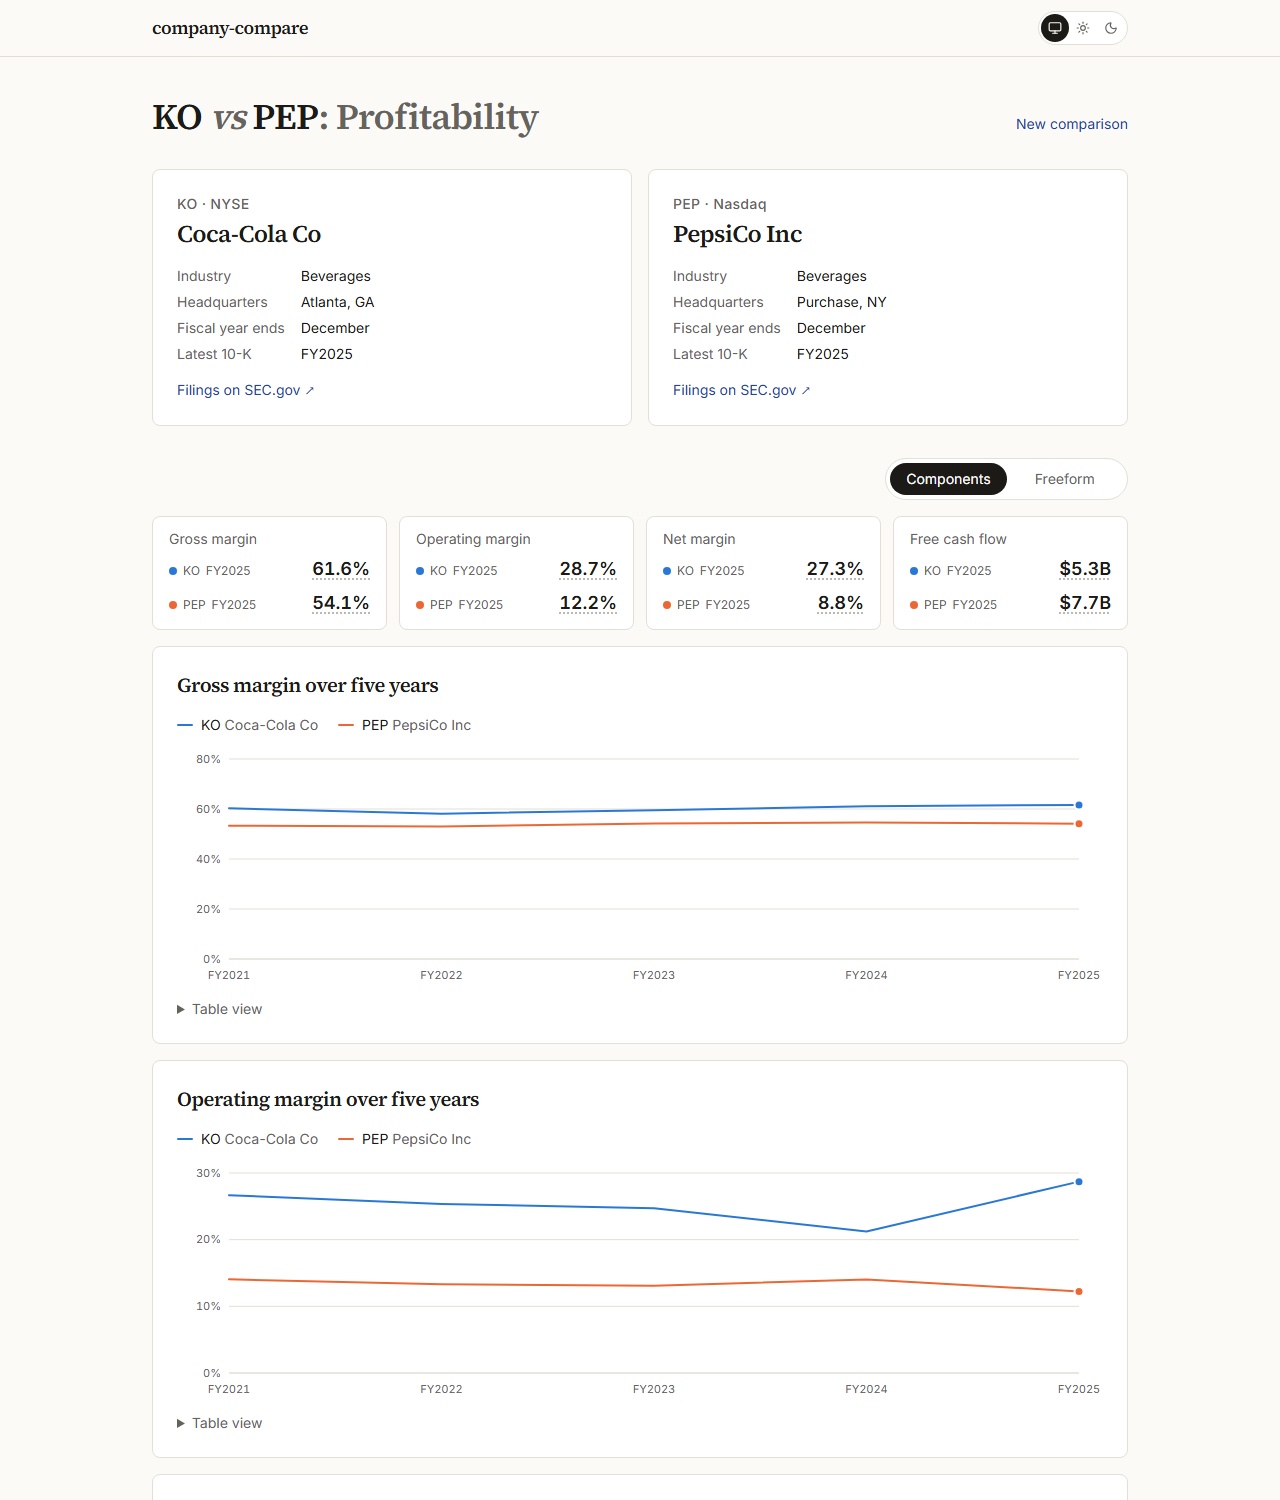
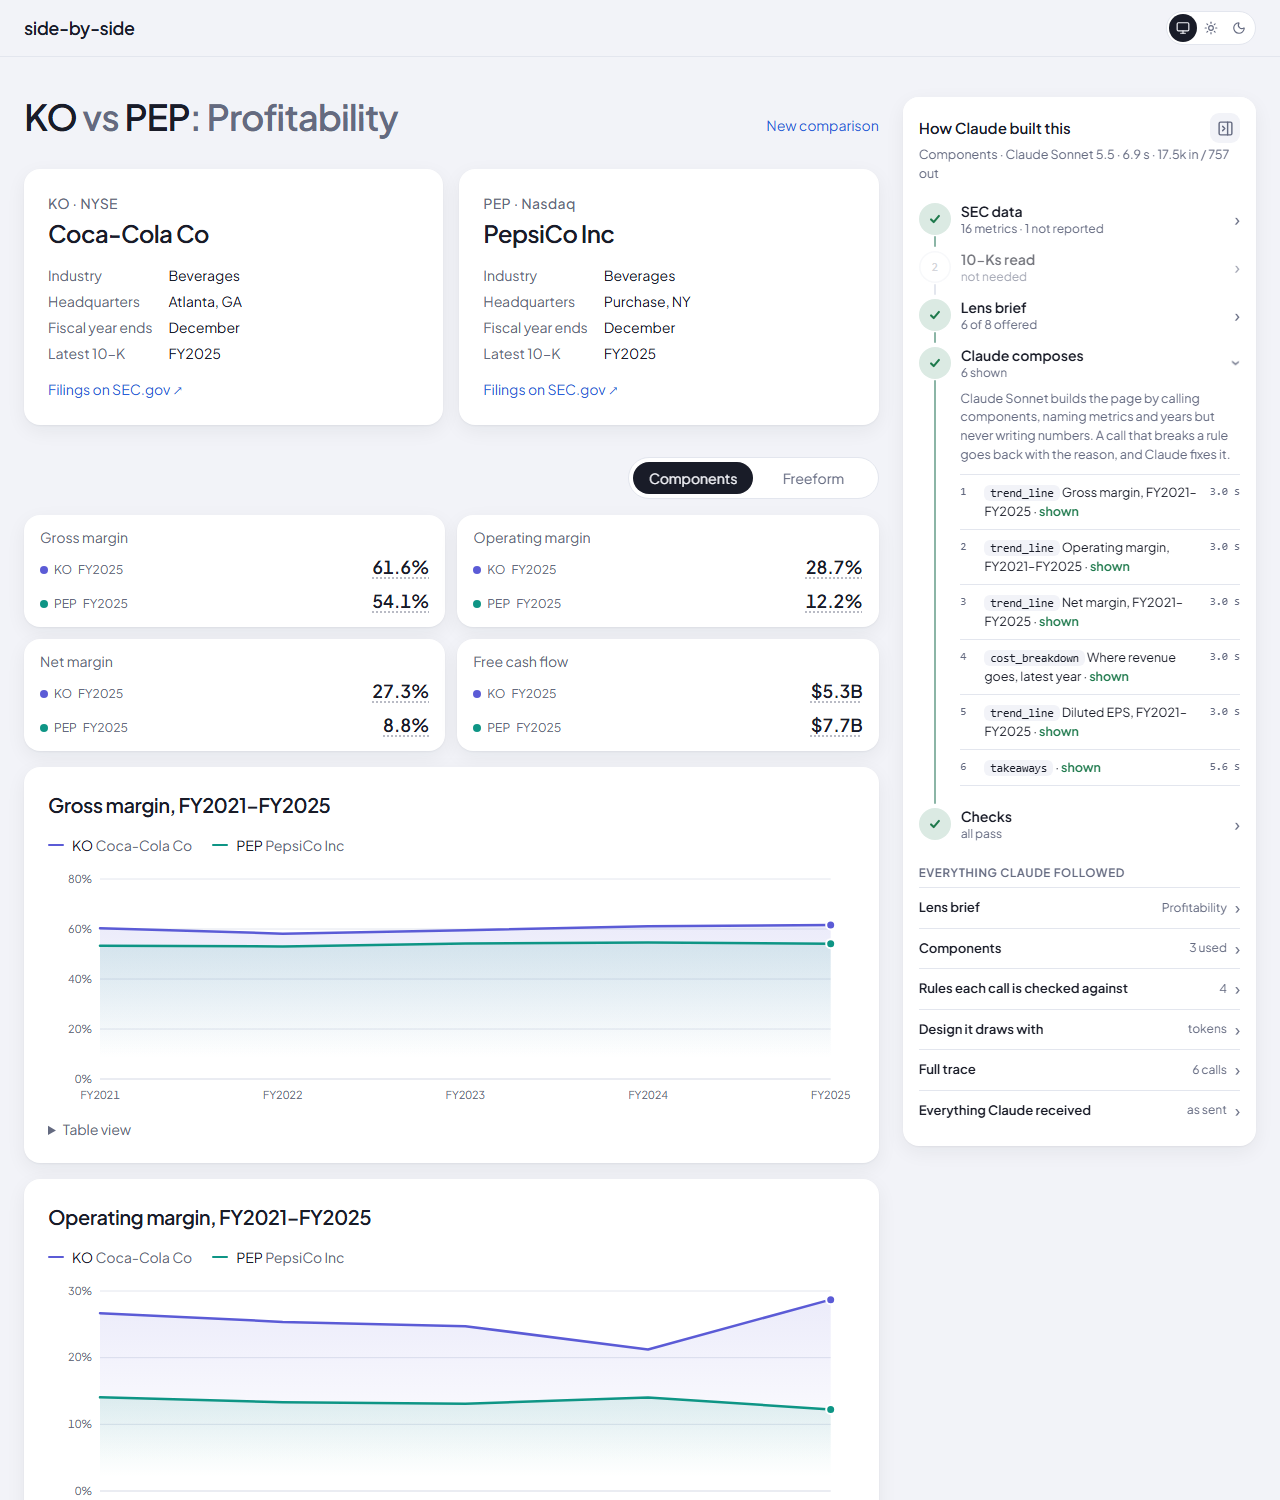
README: how each page is made, a live-generation GIF, fresh screenshots
Claude-Session: https://claude.ai/code/session_015WuGVhwYYraeNn2SSyGWm9

diff --git a/README.md b/README.md
@@ -3,7 +3,7 @@
 Pick two US public companies and a lens; Claude builds the comparison from their SEC filings. Every number on the
 page links to the filing it came from.
 
-![Opening a featured comparison, then switching to Freeform](docs/demo.gif)
+![A live generation: pick two companies and a lens, then watch Claude build the page and the panel record each step](docs/demo.gif)
 
 - **Five lenses:** Profitability, Growth, Balance-sheet risk, Risk exposure, Where they compete.
 - **Two modes.** *Components*: Claude composes the page from a fixed set of charts and cards through tool calls.
@@ -12,14 +12,41 @@ page links to the filing it came from.
   values up in the normalized filing data. Hover or tap any number for its filing (form, fiscal year, filed date)
   and a link to it on SEC.gov.
 - **Neutral.** Takeaways describe differences, never a winner. Not financial advice.
+- **Shows its work.** Beside every comparison, a panel shows how Claude built that page: the
+  [five steps](#how-each-page-is-made), each tool call, and everything Claude was given.
 
 | Components | Freeform |
 |---|---|
 | ![KO vs PEP, profitability, components](docs/components.png) | ![AMD vs NVDA, growth, freeform, dark](docs/freeform.png) |
 
-| Risk exposure: each 10-K's risk factors, grouped | Phone, dark |
+| Risk exposure: the themes each 10-K names, shared and not | Phone, dark |
 |---|---|
-| ![AAPL vs MSFT risk themes as tiles](docs/risk-tiles.png) | <img src="docs/mobile.png" alt="F vs GM on a phone, dark" width="300"> |
+| ![AAPL vs MSFT risk themes in overlapping panels](docs/risk-venn.png) | <img src="docs/mobile.png" alt="F vs GM on a phone, dark" width="300"> |
+
+## How each page is made
+
+<img src="docs/process.png" alt="The panel beside AAPL vs MSFT, risk exposure: five steps, each tool call, the checks" width="320" align="right">
+
+Every comparison goes through the same five steps, and the panel beside it (a strip under it on narrower screens)
+shows this run's numbers for each:
+
+1. **SEC data.** Each company's reported financials, read from its SEC XBRL filings: about 16 metrics over five
+   fiscal years, each value keeping the filing it came from. A metric a company doesn't report stays
+   `not reported`.
+2. **10-Ks read** (Risk exposure, Where they compete). Claude Haiku condenses the latest annual report's business
+   and risk sections into themes; code checks every quote word for word against the filing.
+3. **Lens brief.** What the lens asks and which components usually answer it. Claude chooses; the lens steers.
+4. **Claude composes.** Claude Sonnet calls components, naming metrics and years but never writing numbers. In
+   Freeform it writes the whole page, with the site's cards and a chart helper that looks each value up. A call
+   that breaks a rule goes back with the reason, and Claude fixes it.
+5. **Checks.** Code reads the finished page: every number must appear in the filings, nothing not reported may show
+   as a value, every quote must match, and a freeform page may load nothing from outside itself.
+
+Below the steps, the panel holds everything Claude was given and followed for that page: the lens brief, the
+components offered and excluded, the rules each call is checked against, the design tokens (and the kit pieces a
+freeform page used), the full trace with timings and token counts, and the exact prompt as sent. Each trace is
+recorded at generation time and stored with the result; `/compare/<pair>/<lens>/process` opens it as its own page.
+<br clear="right">
 
 ## How it works
 
@@ -44,8 +71,8 @@ flowchart LR
 | `featured/` | Five comparisons generated ahead of time and committed, so they open with no Claude or SEC calls. |
 | `app/` | Next.js App Router: pages, the streaming `/api/compare` route, sign-in. |
 
-A new comparison streams: progress steps, then a headline strip drawn in code (~1s), then each component as
-Claude shows it. Results are cached per pair, lens and mode.
+A new comparison streams: a headline strip drawn in code (~1s), then each component as Claude shows it, while the
+panel lights up step by step. Results are cached per pair, lens and mode, with their trace.
 
 ## Run it locally
 
@@ -64,7 +91,7 @@ your key, plus Claude Haiku 5.5 once per 10-K the first time a text lens reads i
 |---|---|
 | `npm run lint && npm run typecheck && npm test` | What CI runs. Never calls Claude or the SEC. |
 | `npm run eval -- [--model sonnet\|opus] [--only <case>]` | Generates the eval cases and scores them (`evals/out/`). Calls Claude. |
-| `npm run featured -- [--only <case>]` | Regenerates featured comparisons, keeping only runs that pass every check. Review each page by eye before committing it. |
+| `npm run featured -- [--only <case>] [--mode freeform]` | Regenerates featured comparisons, keeping only runs that pass every check (`--mode freeform`: only the freeform pages). Review each page by eye before committing it. |
 | `npm run eval:fixtures` | Rebuilds the eval fixtures from the SEC. |
 
 ## Deploy
